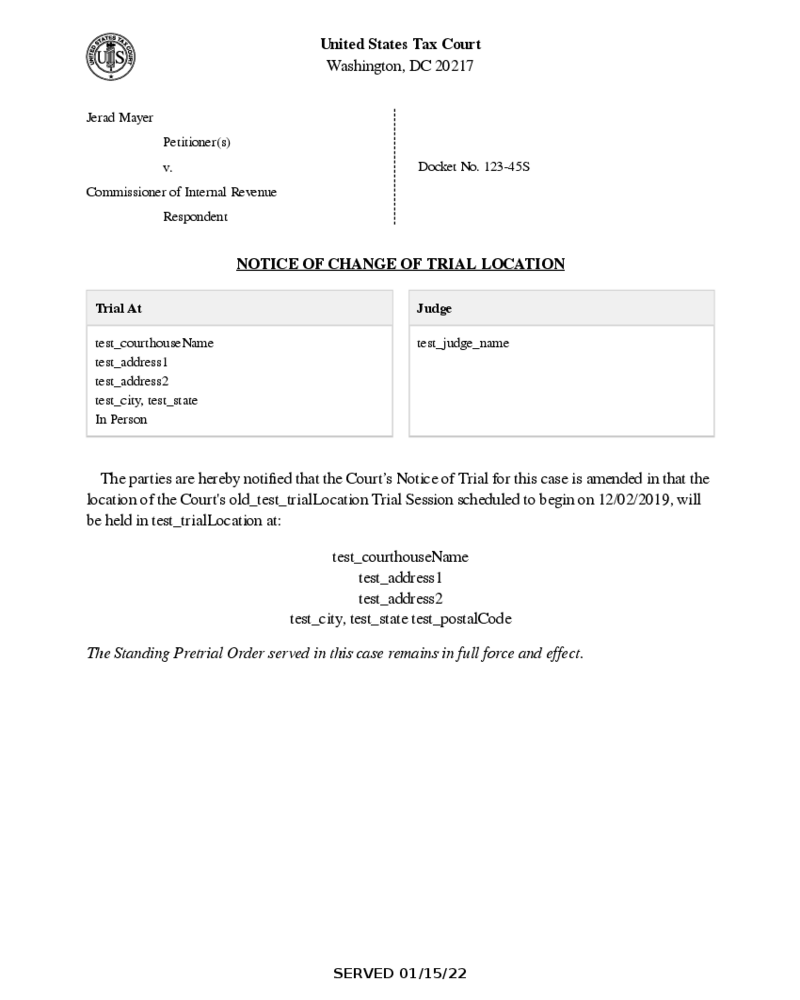
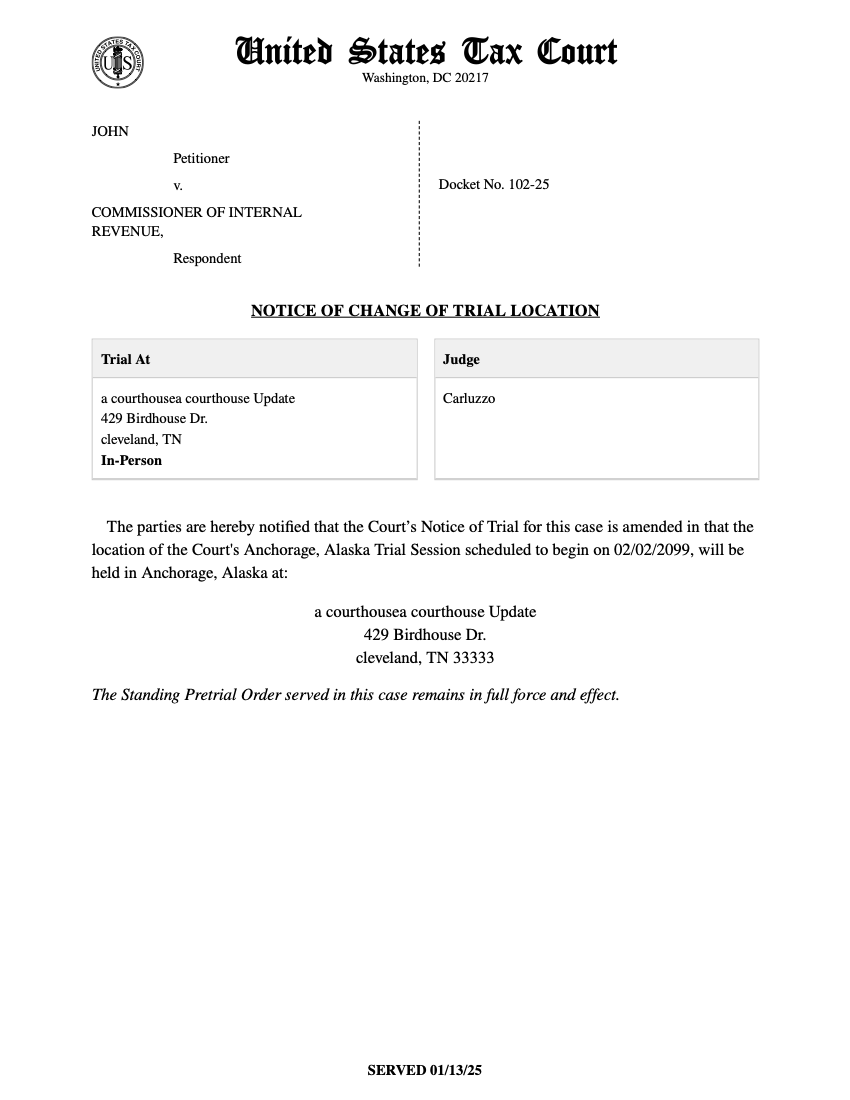
10522 update styles

diff --git a/shared/src/business/utilities/pdfGenerator/documentTemplates/NoticeOfChangeOfTrialLocation.tsx b/shared/src/business/utilities/pdfGenerator/documentTemplates/NoticeOfChangeOfTrialLocation.tsx
@@ -1,5 +1,5 @@
-import { DocketHeader } from '@shared/business/utilities/pdfGenerator/components/DocketHeader';
-import { PrimaryHeader } from '@shared/business/utilities/pdfGenerator/components/PrimaryHeader';
+import { ChangeOfTrialLocationDocketHeader } from '@shared/business/utilities/pdfGenerator/components/ChangeOfTrialLocationDocketHeader';
+import { OrderPrimaryHeader } from '@shared/business/utilities/pdfGenerator/components/OrderPrimaryHeader';
 import { RawTrialSession } from '@shared/business/entities/trialSessions/TrialSession';
 import { formatDateString } from '@shared/business/utilities/DateHandler';
 import React from 'react';
@@ -33,8 +33,8 @@ export const NoticeOfChangeOfTrialLocation = ({
 }) => {
   return (
     <div>
-      <PrimaryHeader />
-      <DocketHeader
+      <OrderPrimaryHeader />
+      <ChangeOfTrialLocationDocketHeader
         caseCaptionExtension={caseCaptionExtension}
         caseTitle={caseTitle}
         docketNumberWithSuffix={docketNumberWithSuffix}
@@ -67,7 +67,7 @@ export const NoticeOfChangeOfTrialLocation = ({
 
                     return <div key={prop}>{updatedTrialSession[prop]}</div>;
                   })}
-                <div>In Person</div>
+                <div style={{ fontWeight: 'bold' }}>In-Person</div>
               </td>
             </tr>
           </table>

diff --git a/shared/src/business/utilities/pdfGenerator/components/ChangeOfTrialLocationDocketHeader.tsx b/shared/src/business/utilities/pdfGenerator/components/ChangeOfTrialLocationDocketHeader.tsx
@@ -1,0 +1,34 @@
+import React from 'react';
+
+export const ChangeOfTrialLocationDocketHeader = ({
+  caseCaptionExtension,
+  caseTitle,
+  docketNumberWithSuffix,
+  documentTitle,
+}: {
+  caseCaptionExtension: string;
+  caseTitle: string;
+  docketNumberWithSuffix: string;
+  documentTitle?: string;
+}) => {
+  return (
+    <div className="order-docket-header">
+      <div id="caption">
+        <div id="caption-title">{caseTitle?.toUpperCase()}</div>
+        <div id="caption-extension">{caseCaptionExtension}</div>
+        <div id="caption-v">v.</div>
+        <div id="caption-commissioner">
+          COMMISSIONER OF INTERNAL
+          <br />
+          REVENUE,
+        </div>
+        <div id="caption-respondent">Respondent</div>
+      </div>
+      <div id="docket-number">Docket No. {docketNumberWithSuffix}</div>
+      <div className="clear"></div>
+      {documentTitle && (
+        <h3 className="document-title underline">{documentTitle}</h3>
+      )}
+    </div>
+  );
+};

diff --git a/shared/src/business/utilities/htmlGenerator/components/order-docket-header.scss b/shared/src/business/utilities/htmlGenerator/components/order-docket-header.scss
@@ -29,6 +29,16 @@
   margin-left: 95px;
 }
 
+.document-title {
+  margin-top: 30px;
+  font-size: 16px;
+  text-align: center;
+
+  .underline {
+    text-decoration: underline;
+  }
+}
+
 .order-docket-header #docket-number {
   width: 48%;
   margin-top: 50px;
